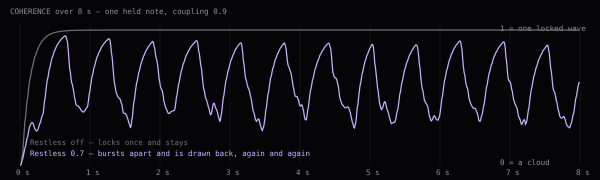
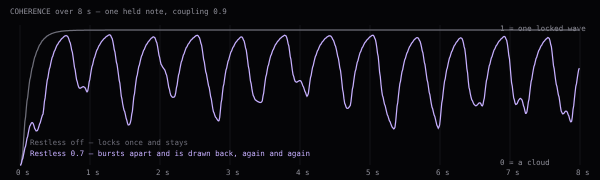
Restless keeps the note in tune (his ear: "blurry")
The kicks sum to zero and are smaller: the note's centre stays within
±1 cent (was 10–24 cents flat), voices ±7–14 cents (was ±30).

Claude-Session: https://claude.ai/code/session_01CVLqKkJj5zvE99MkrEYFxM

Changed region(s): [[0.09, 0.1944, 0.99, 0.7222]]

diff --git a/tools/music/components/oscillator-population/oscillator-population.js b/tools/music/components/oscillator-population/oscillator-population.js
@@ -12,7 +12,7 @@
  *   pull    while coupled, each voice's own frequency is drawn toward the swarm's (adaptive frequency): 0 = only phases lock
  *   snap()  every phase to the mean phase at once (Lock on beat)
  *   1.1 (3.145, N2 — his ear: "The swarm doesn't seem like anything new sound wise"): three behaviours you HEAR, each 0 = as 1.0 exactly
- *   restless 0…1  when the swarm locks (R > 0.92) it bursts apart — a seeded kick in pitch of up to ±90 cents (never a phase jump: it clicks) — and the coupling
+ *   restless 0…1  when the swarm locks (R > 0.92) it bursts apart — a seeded kick in pitch of up to ±40 cents, summing to zero so the note stays in tune (never a phase jump: it clicks) — and the coupling
  *                 pulls it back: it breathes between one wave and a cloud by itself (the period follows coupling and restless)
  *   form     s    harmonic mode: each voice glides from unison to its chord ratio over this long after a note — you hear the chord form
  *   fm       0…1  field FM: the swarm's own sum (its mean sine, an audio-rate signal) phase-modulates every voice, up to 0.3 of a cycle
@@ -33,7 +33,7 @@
     const th = new Float64Array(MAX), phi = new Float64Array(MAX), base = new Float64Array(MAX), drift = new Float64Array(MAX), adapt = new Float64Array(MAX), dts = new Float64Array(MAX), rat = new Float64Array(MAX);
     let mx = 1, my = 0, n = 1, K = 0.45, mode = 1, pull = 0.5, dAmt = 0.25, cluster = 0, seed = 1, tick = 0, R = 1, psi = 0;
     let restless = 0, formS = 0, fmAmt = 0, cool = 0, coolT = 1;   // 1.1
-    const rcur = new Float64Array(MAX).fill(1);
+    const rcur = new Float64Array(MAX).fill(1), kick = new Float64Array(MAX);
     const rnd = () => { seed = (seed * 1664525 + 1013904223) >>> 0; return seed / 4294967296; };
     function configure(count, spreadCents, s) {
       tick = 0;
@@ -69,7 +69,10 @@
         }
         // 1.1 restless: locked → burst apart (seeded), then the coupling draws it back; a cool-down keeps one burst per lock
         if (restless > 0) { if (cool > 0) cool -= 64; else if (R > 0.92) {
-          for (let i = 0; i < n; i++) adapt[i] += (rnd() * 2 - 1) * 90 * restless;   // a kick in pitch only — no phase jump (a jump clicks)
+          // a kick in pitch only (a phase jump clicks); the kicks sum to zero, so the note's centre stays in tune — only the voices
+          // spread around it (1.1.1, his ear 2026-11-07: "blurry": uneven kicks left the whole note 10–24 cents flat)
+          let km = 0; for (let i = 0; i < n; i++) { kick[i] = (rnd() * 2 - 1) * 40 * restless; km += kick[i]; } km /= n;
+          for (let i = 0; i < n; i++) adapt[i] += kick[i] - km;
           cool = coolT = sr * (0.5 + (1 - restless) * 2.5); } }
       }
       for (let i = 0; i < n; i++) {

diff --git a/docs/HIS-WORDS-MAP.md b/docs/HIS-WORDS-MAP.md
@@ -78,3 +78,5 @@ kept), or **open** (not done yet, and what is missing). Newest at the bottom. Ad
 | 69 | "grove isn't the best but it's okay. i like some of the lofi so far." | noted | — |
 | 70 | "Full note and rhythm editor canvas." | **open** — next after N2 | the approved Workshop (`specs/eravos.workshop.spec`, W1–W4) with the Pattern Editor parts already built (pattern-store, seed-registry, scale-key) |
 | 71 | "Lets focus on getting tools more novel from each other" | **doing** — N2 (3.145) first | Swarm 1.1: Restless, Form glide, Field FM, Lock → tone (oscillator-population 1.1) + the Living pack; the fingerprint measures motion (how fast tone and level move); then N4 tool by tool |
+| 72 | "Tell me what you’ve added. Show me." | **done** | `docs/previews/swarm-life*.png` (window, LIFE card, coherence over 8 s); 8 s clips rendered by `docs/previews/swarm-life.shots.mjs` (outside the repo: no recordings shipped) |
+| 73 | "The living breathing sounds odd. They do sound different Like blurry kind of." | **fixed** (1.1.1) · **open** (his ear: before / after) | measured: Restless left the whole note 10–24 cents flat and the voices ±30 cents apart; now the kicks sum to zero (centre within ±1 cent) and are smaller (±7–14 cents) — `oscillator-population.test.mjs` checks the note stays in tune |

diff --git a/PROGRESS.md b/PROGRESS.md
@@ -2,6 +2,15 @@
 
 Where things stand, so work can be picked up in any session. Newest first.
 
+## Done — 3.146 Restless in tune (2026-11-07)
+His ear: "The living breathing sounds odd. They do sound different Like blurry kind of."
+- Measured the cause: each Restless burst kicked every voice's pitch by an uneven random amount — the kicks did not cancel, so the whole
+  note sat 10–24 cents flat, with the voices ±30 cents around it (Restless off: centre within 1 cent).
+- oscillator-population 1.1.1: the kicks sum to zero (the note's centre stays in tune) and are smaller (±40 cents × Restless, was ±90):
+  centre within ±1 cent over 8 s, spread ±7–14 cents, the coherence still falls to 0.1–0.4 and comes back. Restless 0: unchanged.
+- Shown: before / after clips for Breathing Swarm, Shatter Bloom, Tide Lock (his pick). Pictures: docs/previews/swarm-life*.png.
+- Proof: oscillator-population 26 checks (+2: centre within 3 cents over 8 s; still breathes); P123 9/9.
+
 ## Done — 3.145 N2: Swarm 1.1 — it moves by itself; motion in the fingerprint (2026-11-06)
 Asked: "The swarm doesn't seem like anything new sound wise." · "Lets focus on getting tools more novel from each other" (and "Full note
 and rhythm editor canvas." — mapped, next).
